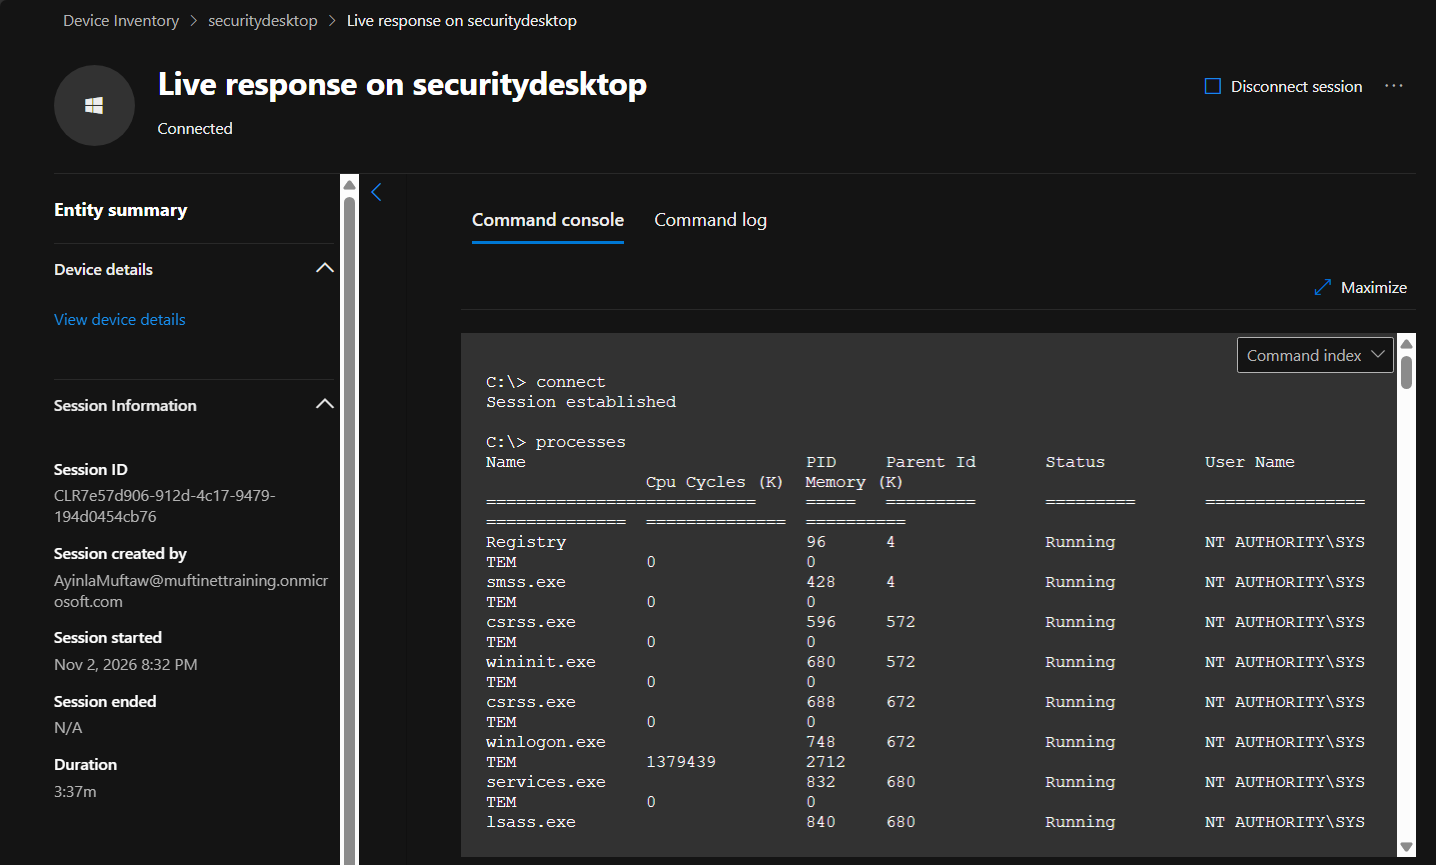
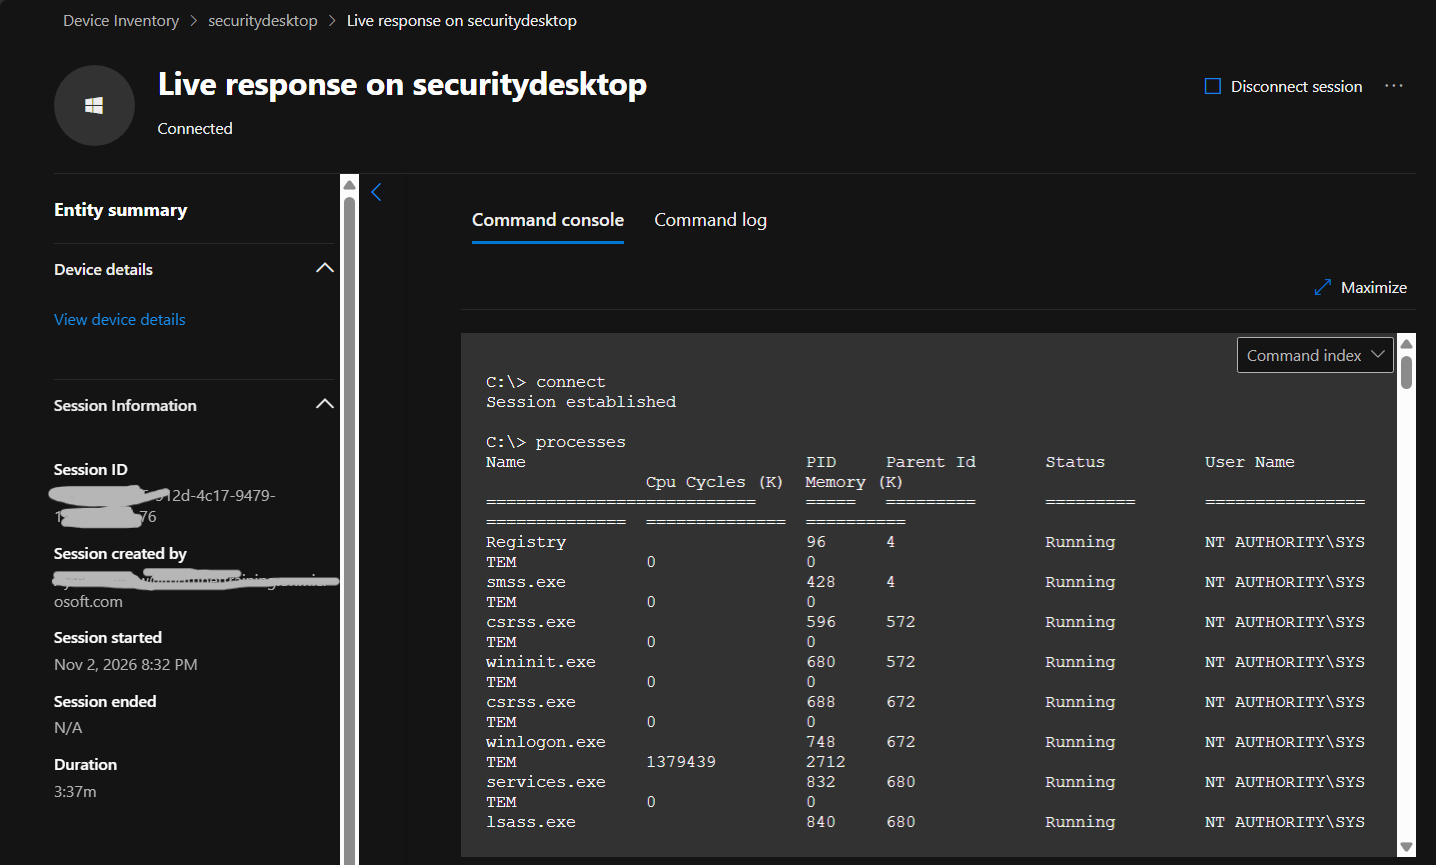
Update Case Study 02 with live Case ID 23 telemetry, both Live Response screenshots, and redacted session metadata

Changed region(s): [[0.0306, 0.6555, 0.2451, 0.6867], [0.0306, 0.5618, 0.1226, 0.6243]]

diff --git a/case-studies/02_Incident_Triage_and_LiveResponse.md b/case-studies/02_Incident_Triage_and_LiveResponse.md
@@ -4,19 +4,21 @@
 | :--- | :--- |
 | **Role Focus** | Tier 1 / Tier 2 SOC Analyst & Incident Responder |
 | **MITRE ATT&CK** | `T1105` (Ingress Tool Transfer — `certutil.exe`), `T1059.001` (Command and Scripting Interpreter: PowerShell `-EncodedCommand`) |
-| **Platforms Used** | Microsoft Defender XDR (`security.microsoft.com`), Defender for Endpoint Live Response, Windows 11 |
+| **Target Host** | `securitydesktop` (Windows 11 64-bit) |
+| **Correlated Case** | **Case ID 23:** *An active 'Ceprolad' malware in a command line was prevented from executing* |
+| **Platforms Used** | Microsoft Defender XDR (`security.microsoft.com`), Defender for Endpoint Live Response, Windows PowerShell |
 | **Automation / Query Assets** | [`simulations/simulate_suspicious_process.ps1`](../simulations/simulate_suspicious_process.ps1), [`queries/hunting_queries.kql`](../queries/hunting_queries.kql) |
 
 ---
 
 ## 🎯 1. Objective & Problem Statement
 
-Modern attackers frequently evade signature-based antivirus by abusing native, Microsoft-signed binaries (**Living-off-the-Land Binaries and Scripts — LOLBAS**) such as `certutil.exe` to stage payloads from external URLs, followed by Base64-encoded PowerShell execution (`-EncodedCommand`) to hide malicious logic in memory.
+Modern attackers frequently attempt to evade traditional antivirus by abusing native, Microsoft-signed binaries (**Living-off-the-Land Binaries and Scripts — LOLBAS**) such as `certutil.exe` to stage payloads from external URLs, followed by Base64-encoded PowerShell execution (`-EncodedCommand`) to hide malicious logic in memory.
 
 **Engineering & Incident Response Objective:**
-1. Execute a safe, auto-cleaning purple-team script ([`simulate_suspicious_process.ps1`](../simulations/simulate_suspicious_process.ps1)) on an onboarded Windows 11 workstation to generate authentic `T1105` and `T1059.001` telemetry.
-2. Triage the resulting incident in **Microsoft Defender XDR**, analyzing the **Attack Story** process tree and **Device Timeline**.
-3. Initiate an encrypted **Live Response** remote shell session to collect volatile forensic artifacts (`processes`, `fileinfo`, and an **Investigation Package**).
+1. Execute a safe, auto-cleaning purple-team script ([`simulate_suspicious_process.ps1`](../simulations/simulate_suspicious_process.ps1)) on the onboarded Windows 11 workstation (`securitydesktop`) to generate authentic `T1105` and `T1059.001` telemetry.
+2. Triage the resulting incident (**Case ID 23**) in **Microsoft Defender XDR**, analyzing the **Attack Graph** process/entity correlation.
+3. Initiate an encrypted **Live Response** remote shell session to `securitydesktop` to inspect active system processes (`processes`) and binary metadata (`fileinfo "C:\Windows\System32\certutil.exe"`).
 4. Evaluate **Selective Isolation** vs. **Full Network Isolation** to contain active threats while preserving communication channels with the user.
 
 ---
@@ -25,17 +27,17 @@ Modern attackers frequently evade signature-based antivirus by abusing native, M
 
 ```mermaid
 sequenceDiagram
-    participant Win11 as Windows 11 Endpoint
-    participant Sensor as MDE Sensor
-    participant XDR as Defender XDR Portal
+    participant Win11 as Windows 11 (securitydesktop)
+    participant Sensor as MDE Sensor & Behavioral Block
+    participant XDR as Defender XDR Portal (Case ID 23)
     participant SOC as SOC Analyst (Live Response)
 
     Win11->>Sensor: 1. Runs simulate_suspicious_process.ps1 (certutil + Encoded PS)
-    Sensor->>XDR: 2. Streams DeviceProcessEvents & DeviceNetworkEvents
-    XDR->>SOC: 3. Correlates Alerts into Incident & Attack Story Graph
-    SOC->>XDR: 4. Initiates Live Response WebSocket Session
-    XDR->>Win11: 5. Executes 'processes', 'fileinfo' & Collects Investigation Package
-    SOC->>Win11: 6. Enforces Selective Isolation (Blocks C2, Allows Teams/Outlook)
+    Sensor->>Win11: 2. Blocks suspicious certutil -urlcache ingress ('Ceprolad' behavioral signature)
+    Sensor->>XDR: 3. Streams DeviceProcessEvents & Correlates Case ID 23
+    SOC->>XDR: 4. Triages Attack Graph (securitydesktop + powershell.exe + User)
+    SOC->>Win11: 5. Initiates Live Response ('processes' & 'fileinfo certutil.exe')
+    SOC->>Win11: 6. Evaluates Selective Isolation (Allows Teams/Outlook, Blocks C2)
 ```
 
 ---
@@ -43,92 +45,100 @@ sequenceDiagram
 ## 🛠 3. Investigation & Response Walkthrough
 
 ### Phase 1: Adversary Emulation (Generating LOLBAS & Encoded PowerShell Telemetry)
-On the Windows 11 endpoint, I executed [`simulations/simulate_suspicious_process.ps1`](../simulations/simulate_suspicious_process.ps1), which performs two controlled behaviors before automatically cleaning up all artifacts:
-- **Stage 1 (`T1105`):** Invokes `certutil.exe -urlcache -split -f` to download a harmless documentation file from GitHub into `$env:TEMP\SC200_Lab`, followed by flushing the URL cache.
-- **Stage 2 (`T1059.001`):** Converts a benign status output string into Unicode Base64 and executes `powershell.exe -NoProfile -NonInteractive -EncodedCommand <Base64>`.
+On the Windows 11 endpoint (`securitydesktop`), I executed [`simulations/simulate_suspicious_process.ps1`](../simulations/simulate_suspicious_process.ps1):
 
 ```powershell
-# Executed on the target Windows 11 workstation
-.\simulations\simulate_suspicious_process.ps1
+powershell -ExecutionPolicy Bypass -File .\simulate_suspicious_process.ps1
 ```
 
-📸 **Evidence — Purple-Team Script Execution:**
-> *Place screenshot at:* `../screenshots/case02_01_simulation_execution.png`  
-> ![Purple Team Script Execution](../screenshots/case02_01_simulation_execution.png)
+#### Observed Endpoint Behavior:
+- **Stage 1 (`T1105` — LOLBAS Ingress Attempt):** Invoked `certutil.exe -urlcache -split -f "https://raw.githubusercontent.com/Azure/Azure-Sentinel/master/README.md"`. Microsoft Defender behavioral monitoring immediately intercepted the command-line pattern (`Access is denied`) and raised a behavioral prevention alert (`'Ceprolad' malware in a command line was prevented from executing`).
+- **Stage 2 (`T1059.001` — Base64 Encoded PowerShell):** Executed `powershell.exe -NoProfile -NonInteractive -EncodedCommand VwByAGkAdABlAC0ASABvAHMAdAAg...`, generating `DeviceProcessEvents` telemetry for obfuscated command execution.
+- **Stage 3 (Cache Cleanup):** Executed `certutil.exe -urlcache split -delete` to flush the local URL cache.
+
+📸 **Evidence — Purple-Team Script Execution & Real-Time Behavioral Interception:**
+
+![Purple Team Script Execution](../screenshots/case02_01_simulation_execution.png)
 
 ---
 
-### Phase 2: Incident Triage, Attack Story & Process Tree Analysis
-1. In **Microsoft Defender XDR** (`https://security.microsoft.com`), navigated to **Incidents & alerts** > **Incidents**.
-2. Opened the correlated incident and inspected the **Attack Story** graph:
-   - Verified the parent-child execution hierarchy:
-     ```text
-     powershell.exe (Initiating Parent Process)
-      ├── certutil.exe -urlcache -split -f "https://raw.githubusercontent.com/..."
-      └── powershell.exe -NoProfile -NonInteractive -EncodedCommand ...
-     ```
-3. Inspected the **Device Timeline** to correlate the exact microsecond sequence of `ProcessCreated` and outbound `ConnectionSuccess` events.
+### Phase 2: Incident Triage & Attack Graph Analysis
+1. In **Microsoft Defender XDR** (`https://security.microsoft.com`), navigated to **Incidents & alerts**.
+2. Opened **Case ID 23** (*"An active 'Ceprolad' malware in a command line was prevented from executing"*) and inspected the **Incident Graph**:
+   - Correlated **1 Active Alert**, **2 Assets** (`securitydesktop` and user `Mufti Security`), and **4 Evidence items**.
+   - Verified the process node `"powershell.exe" -ExecutionPolicy Bypass -File .\simulate_suspicious_process.ps1` linked directly to `securitydesktop`.
 
-📸 **Evidence — Defender XDR Attack Story & Process Tree:**
-> *Place screenshot at:* `../screenshots/case02_02_attack_story_graph.png`  
-> ![Attack Story Process Tree](../screenshots/case02_02_attack_story_graph.png)
+📸 **Evidence — Defender XDR Case ID 23 & Attack Graph Correlation:**
+
+![Attack Story Process Tree](../screenshots/case02_02_attack_story_graph.png)
 
 ---
 
 ### Phase 3: Remote Forensic Triage via Defender Live Response
-To inspect volatile state on the endpoint without tipping off an attacker via RDP logons:
-1. Verified that **Live Response** is enabled under **Settings** > **Endpoints** > **Advanced features**.
-2. Navigated to **Assets** > **Devices**, selected the Windows 11 host, and clicked **Initiate Live Response Session**.
-3. Executed native forensic verification commands inside the secure cloud shell:
-   ```shell
-   # Enumerate active processes and PIDs
-   processes
+To inspect volatile state on `securitydesktop` without establishing an interactive RDP logon session:
+1. Navigated to **Device Inventory** > **`securitydesktop`** and initiated a **Live Response** session.
+2. Executed `processes` inside the encrypted cloud command console to enumerate active kernel and system processes (`Registry` PID 96, `smss.exe` PID 428, `csrss.exe` PID 596, `wininit.exe` PID 680, `winlogon.exe` PID 748, `services.exe` PID 832, and `lsass.exe` PID 840 running under `NT AUTHORITY\SYSTEM`):
 
-   # Inspect directory contents
-   dir "C:\Users"
+```shell
+C:\> connect
+Session established
 
-   # Retrieve cryptographic hashes (SHA-256), PE metadata, and timestamps for certutil.exe
-   fileinfo "C:\Windows\System32\certutil.exe"
-   ```
-4. Triggered **Collect investigation package** from the device action bar to capture an archive of active autoruns, prefetch files, event logs, and network sockets into the **Action Center**.
+C:\> processes
+```
 
-📸 **Evidence — Live Response CLI Session (`processes` & `fileinfo`):**
-> *Place screenshot at:* `../screenshots/case02_03_live_response_cli.png`  
-> ![Live Response CLI Session](../screenshots/case02_03_live_response_cli.png)
+📸 **Evidence — Live Response Console (`processes` Enumeration on `securitydesktop`):**
+
+![Live Response Processes CLI](../screenshots/case02_03_live_response_cli.png)
+
+3. Executed `fileinfo` against `C:\Windows\System32\certutil.exe` to verify binary integrity, PE version metadata, and timestamps (`size: 1589248`, `executable_type: 34404`, `companyName: Microsoft Corporation`, `originalFileName: CertUtil.exe`):
+
+```shell
+C:\> fileinfo "C:\Windows\System32\certutil.exe"
+```
+
+📸 **Evidence — Live Response Forensic Binary Inspection (`fileinfo certutil.exe`):**
+
+![Live Response FileInfo CLI](../screenshots/case02_03_live_response_cli3.png)
 
 ---
 
-### Phase 4: Host Containment — Selective vs. Full Isolation
-From the device response toolbar, I evaluated **Isolate device** options:
-- **Full Isolation:** Drops all inbound and outbound network traffic at the kernel filter driver level except heartbeats to the Defender cloud service.
-- **Selective Isolation (Selected for User Workstation Triage):** Restricts all network traffic while permitting **Outlook, Microsoft Teams, and Skype** traffic. This prevents command-and-control (C2) exfiltration and lateral movement while allowing the SOC analyst to contact the employee over Teams to verify activity.
+### Phase 4: Host Containment — Selective vs. Full Network Isolation
+From the `securitydesktop` device response menu, I opened the **Isolate Computer `securitydesktop`** workflow to evaluate containment options:
+- **Full Isolation:** Severely restricts all inbound and outbound network communication at the Defender filter driver level, permitting only telemetry heartbeats to the Microsoft Defender for Endpoint cloud service.
+- **Selective Isolation (`Allow Outlook, Teams and Skype for Business communication while device is isolated`):** Blocks external C2 and lateral movement while keeping corporate communication channels active so the SOC analyst can coordinate directly with the user (`SOC Lab User 01`).
 
-📸 **Evidence — Device Isolation & Action Center History:**
-> *Place screenshot at:* `../screenshots/case02_04_selective_isolation.png`  
-> ![Selective Isolation Configuration](../screenshots/case02_04_selective_isolation.png)
+📸 **Evidence — Selective Network Isolation Configuration (`securitydesktop`):**
+
+![Selective Isolation Configuration](../screenshots/case02_04_selective_isolation.png)
 
 ---
 
 ### Phase 5: Advanced Hunting Verification (KQL)
-To verify the complete command-line arguments logged by the EDR sensor, I ran the following KQL query in **Hunting** > **Advanced hunting**:
+To verify the raw process execution telemetry recorded in `DeviceProcessEvents`, I ran the following KQL query in **Hunting** > **Advanced hunting**:
 
 ```kql
 DeviceProcessEvents
-| where Timestamp > ago(2h)
 | where FileName =~ "certutil.exe"
 | where ProcessCommandLine has_any ("-urlcache", "-split")
 | project Timestamp, DeviceName, AccountName, ProcessCommandLine, InitiatingProcessFileName
 | sort by Timestamp desc
 ```
 
-📸 **Evidence — KQL Verification of `certutil.exe` Telemetry:**
-> *Place screenshot at:* `../screenshots/case02_05_kql_certutil_telemetry.png`  
-> ![KQL Certutil Telemetry](../screenshots/case02_05_kql_certutil_telemetry.png)
+#### KQL Hunting Findings:
+- **`Timestamp`:** `Nov 2, 2026 8:16:46 PM`
+- **`DeviceName`:** `securitydesktop`
+- **`AccountName`:** `mufti security`
+- **`ProcessCommandLine`:** `"certutil.exe" -urlcache split -delete`
+- **`InitiatingProcessFileName`:** `powershell.exe`
+
+📸 **Evidence — KQL Verification of `certutil.exe` Execution Telemetry:**
+
+![KQL Certutil Telemetry](../screenshots/case02_05_kql_certutil_telemetry.png)
 
 ---
 
 ## 📊 4. Key Findings & Operational Takeaways
 
-- **Why Live Response Beats RDP During Active IR:** Connecting to a compromised host via RDP (`LogonType 10`) caches credentials in LSASS on the target machine—exposing the responder's credentials to theft if an attacker has active memory-dumping tooling on the box. **Defender Live Response** operates over an encrypted sensor WebSocket channel without creating an interactive Windows logon session.
-- **Selective Isolation Reduces Business Friction:** On remote corporate laptops, full network isolation immediately cuts off the user, often prompting them to reboot or call the helpdesk. **Selective Isolation** contains network-borne lateral movement while keeping Teams open for coordinated remediation.
-
+- **Behavioral Command-Line Prevention (`Ceprolad` Signature):** Even though `certutil.exe` is a legitimate Microsoft-signed binary (`C:\Windows\System32\certutil.exe`), Defender's AMSI and command-line behavioral monitoring immediately recognized the `-urlcache -split -f <http>` ingress flag combination and blocked execution before payload write—demonstrating why behavioral EDR outperforms static hash blocklists.
+- **Why Live Response Beats RDP During Active IR:** Connecting to a compromised host via RDP (`LogonType 10`) caches responder credentials in `lsass.exe` (PID 840) on the target machine. **Defender Live Response** operates over an encrypted sensor WebSocket channel without creating an interactive Windows logon session.
+- **Selective Isolation Reduces Business Friction:** Enabling *"Allow Outlook, Teams and Skype for Business communication while device is isolated"* contains network-borne lateral movement while keeping Teams open for coordinated remediation.
